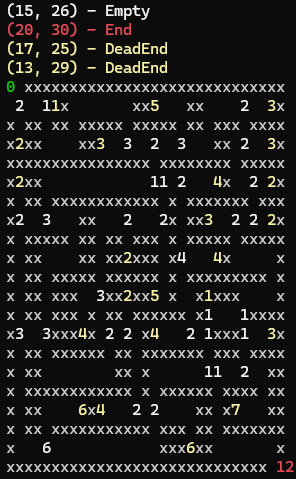
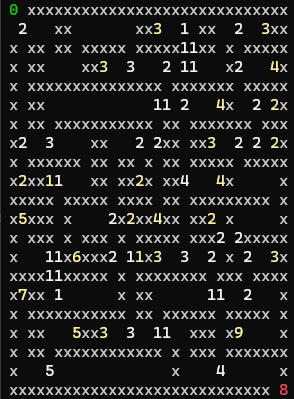
Add files via upload

diff --git a/Lab_9_Dijakstra_A_Star/CreateGraph.cs b/Lab_9_Dijakstra_A_Star/CreateGraph.cs
@@ -16,6 +16,7 @@ namespace AIDS9
         Start,
         End,
         Empty,
+        Dijakstra,
         DeadEnd
     }
 
@@ -24,7 +25,7 @@ namespace AIDS9
         public int x { get; set; }
         public int y { get; set; }
 
-        public int cost { get; set; }   
+        public int cost { get; set; }
         public List<(Node, int)> Neighbors { get; set; }
 
         public NodeType nodeType = NodeType.Empty;
@@ -47,10 +48,10 @@ namespace AIDS9
 
     public class Graph
     {
-        public static Dictionary<(int,int), Node> nodes = new Dictionary<(int, int), Node>();
+        public static Dictionary<(int, int), Node> nodes = new Dictionary<(int, int), Node>();
         static string[] labyrinth = new string[10];
 
-        public static void BuildGraph(string[] newLabyrinth)
+        public static List<Node> BuildGraph(string[] newLabyrinth)
         {
             labyrinth = newLabyrinth;
 
@@ -63,7 +64,7 @@ namespace AIDS9
             {
                 if (labyrinth[0][i] == 'A')
                 {
-                    nodes.Add((0, i), new Node(0,i));
+                    nodes.Add((0, i), new Node(0, i));
                     activeNodes.Push(nodes[(0, i)]);
                     activeNodes.Peek().nodeType = NodeType.Start;
                     break;
@@ -79,7 +80,7 @@ namespace AIDS9
                 visited.Add((parent.x, parent.y));
 
                 List<(int, int, int)> origins = GetDirs(parent.x, parent.y, 0);
-                
+
                 foreach ((int, int, int) d in origins)
                 {
                     dirs.Enqueue(d);
@@ -120,7 +121,8 @@ namespace AIDS9
                         if (labyrinth[dir.Item1][dir.Item2] == 'B')
                         {
                             node.nodeType = NodeType.End;
-                        }else if (parentDirs.Count == 1)
+                        }
+                        else if (parentDirs.Count == 1)
                         {
                             node.nodeType = NodeType.DeadEnd;
                         }
@@ -130,14 +132,16 @@ namespace AIDS9
 
                     foreach ((int, int, int) d in parentDirs)
                     {
-                        if(!visited.Contains((d.Item1, d.Item2))) dirs.Enqueue(d);
+                        if (!visited.Contains((d.Item1, d.Item2))) dirs.Enqueue(d);
                     }
                 }
-                
+
             }
 
             Console.WriteLine("Graph built");
-            PrintGraph(cols, rows);
+            PrintGraph();
+
+            return new List<Node>(nodes.Values);
         }
 
         public static List<(int, int, int)> GetDirs(int row, int col, int cost)
@@ -146,7 +150,7 @@ namespace AIDS9
 
             if (row > 0 && labyrinth[row - 1][col] != 'x')
             {
-                dirs.Add((row - 1, col, cost+1));
+                dirs.Add((row - 1, col, cost + 1));
             }
             if (row < labyrinth.Length - 1 && labyrinth[row + 1][col] != 'x')
             {
@@ -164,25 +168,30 @@ namespace AIDS9
         }
         public static void Color(Node node)
         {
-            if (node.nodeType == NodeType.Start)
+            switch (node.nodeType)
             {
-                Console.ForegroundColor = ConsoleColor.Green;
-            }
-            else if (node.nodeType == NodeType.End)
-            {
-                Console.ForegroundColor = ConsoleColor.Red;
-            }
-            else if (node.nodeType == NodeType.DeadEnd)
-            {
-                Console.ForegroundColor = ConsoleColor.Yellow;
-            }
-            else
-            {
-                Console.ForegroundColor = ConsoleColor.White;
+                case NodeType.Start:
+                    Console.ForegroundColor = ConsoleColor.Green;
+                    break;
+                case NodeType.End:
+                    Console.ForegroundColor = ConsoleColor.Red;
+                    break;
+                case NodeType.DeadEnd:
+                    Console.ForegroundColor = ConsoleColor.Yellow;
+                    break;
+                case NodeType.Dijakstra:
+                    Console.ForegroundColor = ConsoleColor.Green;
+                    break;
+                default:
+                    Console.ForegroundColor = ConsoleColor.White;
+                    break;
             }
         }
-        public static void PrintGraph(int cols, int rows)
+        public static void PrintGraph()
         {
+            int rows = labyrinth.Length;
+            int cols = labyrinth[0].Length;
+
             foreach (KeyValuePair<(int, int), Node> entry in nodes)
             {
                 // Save the current color
@@ -205,9 +214,9 @@ namespace AIDS9
                         // Save the current color
                         var originalColor = Console.ForegroundColor;
 
-                        Color(nodes[(i,j)]);
+                        Color(nodes[(i, j)]);
 
-                        Console.Write(nodes[(i,j)].cost);
+                        Console.Write(nodes[(i, j)].cost);
 
                         // Restore the original color
                         Console.ForegroundColor = originalColor;

diff --git a/Lab_9_Dijakstra_A_Star/Dijakstra.cs b/Lab_9_Dijakstra_A_Star/Dijakstra.cs
@@ -1,0 +1,73 @@
+using System;
+using System.Collections.Generic;
+using System.Linq;
+using System.Text;
+using System.Threading.Tasks;
+
+namespace AIDS9
+{
+    public class Dijakstra
+    {
+        public class SPT
+        {
+            public int shortestDistance = int.MaxValue;
+            public Node prevNode;
+        }
+        public List<Node> ShortestPath(Node start, Node end, string[] labirynth)
+        {
+            Dictionary<Node, SPT> sptSet = new Dictionary<Node, SPT>();
+            HashSet<Node> unvisited = new HashSet<Node>(Graph.nodes.Values);
+
+            foreach (var node in Graph.nodes.Values)
+            {
+                sptSet.Add(node, new SPT());
+            }
+
+            sptSet[start].shortestDistance = 0;
+
+            while (unvisited.Count > 0)
+            {
+                Node? minDistNode = unvisited
+                    .OrderBy(n => sptSet[n].shortestDistance)
+                    .FirstOrDefault();
+
+                if (minDistNode == null) break;
+
+                foreach (var node in minDistNode.Neighbors)
+                {
+                    if (sptSet[node.Item1].shortestDistance > sptSet[minDistNode].shortestDistance + node.Item2)
+                    {
+                        sptSet[node.Item1].shortestDistance = sptSet[minDistNode].shortestDistance + node.Item2;
+                        sptSet[node.Item1].prevNode = minDistNode;
+                    }
+                }
+
+                unvisited.Remove(minDistNode);
+            }
+
+            List<Node> shortest_path = new List<Node>();
+
+            foreach (Node node in sptSet.Keys)
+            {
+                if(node.nodeType == NodeType.End)
+                {
+                    Node curr = node;
+
+                    while(curr != null)
+                    {
+                        shortest_path.Add(curr);
+                        Console.WriteLine($"({curr.x};{curr.y}) -> ");
+                        curr.nodeType = NodeType.Dijakstra;
+                        curr.cost = sptSet[curr].shortestDistance;
+                        curr = sptSet[curr].prevNode;
+                    }
+
+                    shortest_path.Reverse();
+                    break;
+                }
+            }
+
+            return shortest_path;
+        }
+    }
+}

diff --git a/Lab_9_Dijakstra_A_Star/Program.cs b/Lab_9_Dijakstra_A_Star/Program.cs
@@ -1,0 +1,24 @@
+namespace AIDS9
+{
+    public class Program
+    {
+        public static void Main(string[] args)
+        {
+            string path = "C:\\Users\\ntexy\\source\\repos\\AIDS9\\AIDS9\\Labirynth.txt";
+            string[] labyrinth = System.IO.File.ReadAllLines(path);
+
+            List<Node> nodes = Graph.BuildGraph(labyrinth);
+            if (nodes == null)
+            {
+                Console.WriteLine("Invalid labyrinth");
+                return;
+            }
+            Node start = nodes.Find(node => node.nodeType == NodeType.Start);
+            Node end = nodes.Find(node => node.nodeType == NodeType.End);
+
+            Dijakstra dijakstra = new Dijakstra();
+            dijakstra.ShortestPath(start, end, labyrinth);
+            Graph.PrintGraph();
+        }
+    }
+}
